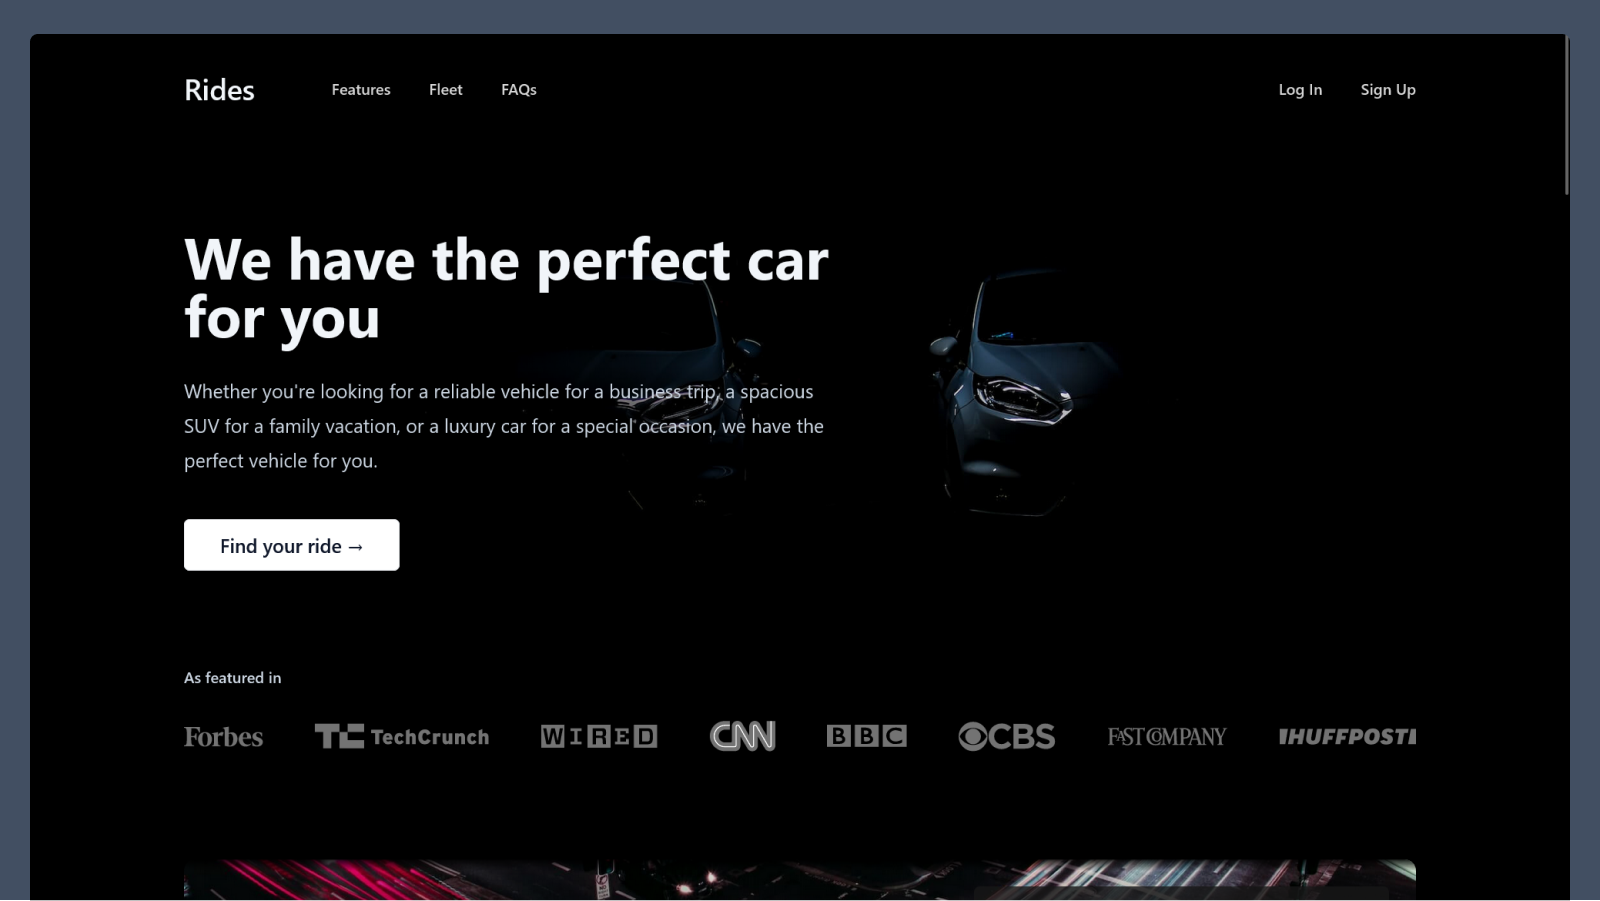
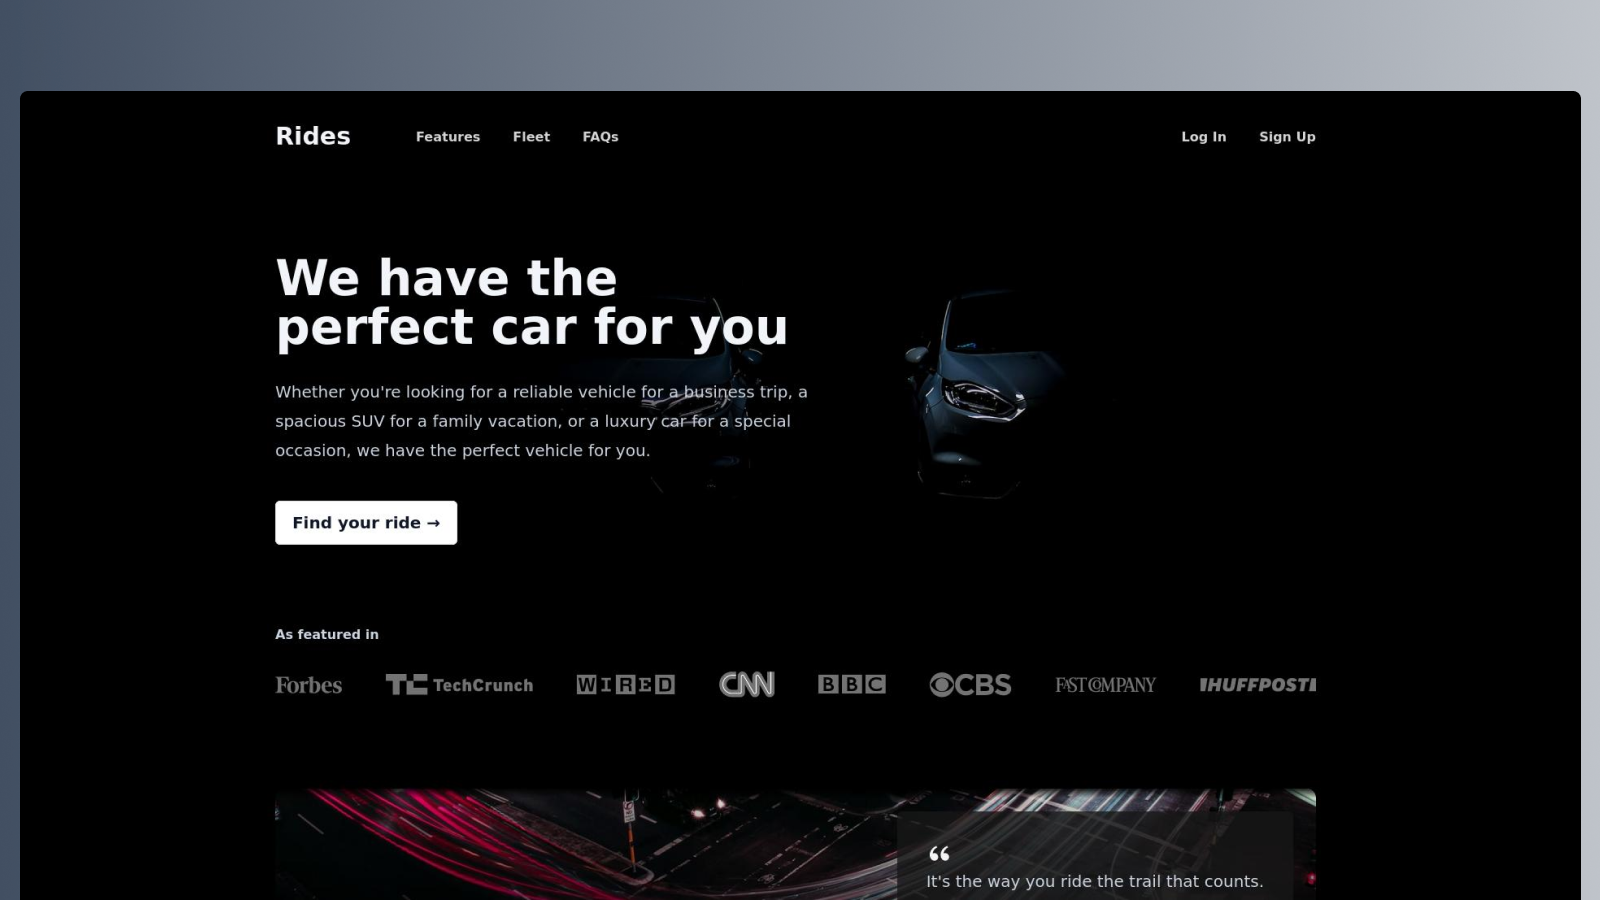
chore: style updates

diff --git a/src/components/Mdx.tsx b/src/components/Mdx.tsx
@@ -13,14 +13,17 @@ import {
 const components = {
   h1: ({ className, ...props }: HTMLAttributes<HTMLHeadingElement>) => (
     <h1
-      className={cn('mt-2 scroll-m-20 text-4xl font-bold', className)}
+      className={cn(
+        'mt-2 scroll-m-20 text-3xl font-bold laptop:text-4xl',
+        className
+      )}
       {...props}
     />
   ),
   h2: ({ className, ...props }: HTMLAttributes<HTMLHeadingElement>) => (
     <h2
       className={cn(
-        'mt-12 scroll-m-20 text-3xl font-bold first:mt-0',
+        'mt-12 scroll-m-20 text-2xl font-bold first:mt-0 laptop:text-3xl',
         className
       )}
       {...props}
@@ -28,19 +31,28 @@ const components = {
   ),
   h3: ({ className, ...props }: HTMLAttributes<HTMLHeadingElement>) => (
     <h3
-      className={cn('mt-8 scroll-m-20 text-2xl font-bold', className)}
+      className={cn(
+        'mt-8 scroll-m-20 text-xl font-bold laptop:text-2xl',
+        className
+      )}
       {...props}
     />
   ),
   h4: ({ className, ...props }: HTMLAttributes<HTMLHeadingElement>) => (
     <h4
-      className={cn('mt-8 scroll-m-20 text-xl font-bold', className)}
+      className={cn(
+        'mt-8 scroll-m-20 text-lg font-bold laptop:text-xl',
+        className
+      )}
       {...props}
     />
   ),
   h5: ({ className, ...props }: HTMLAttributes<HTMLHeadingElement>) => (
     <h5
-      className={cn('mt-8 scroll-m-20 text-lg font-bold', className)}
+      className={cn(
+        'mt-8 scroll-m-20 text-base font-bold laptop:text-lg',
+        className
+      )}
       {...props}
     />
   ),

diff --git a/src/components/Fonts.tsx b/src/components/Fonts.tsx
@@ -1,7 +1,7 @@
 import {
   Inter as FontSans,
   Roboto_Mono as FontMono,
-  Source_Serif_4 as FontSerif
+  Hahmlet as FontSerif
 } from '@next/font/google';
 
 const fontSans = FontSans({
@@ -24,7 +24,6 @@ const fontSerif = FontSerif({
   variable: '--font-serif',
   display: 'swap',
   weight: 'variable'
-  // axes: ['opsz']
 });
 
 export function Fonts() {
